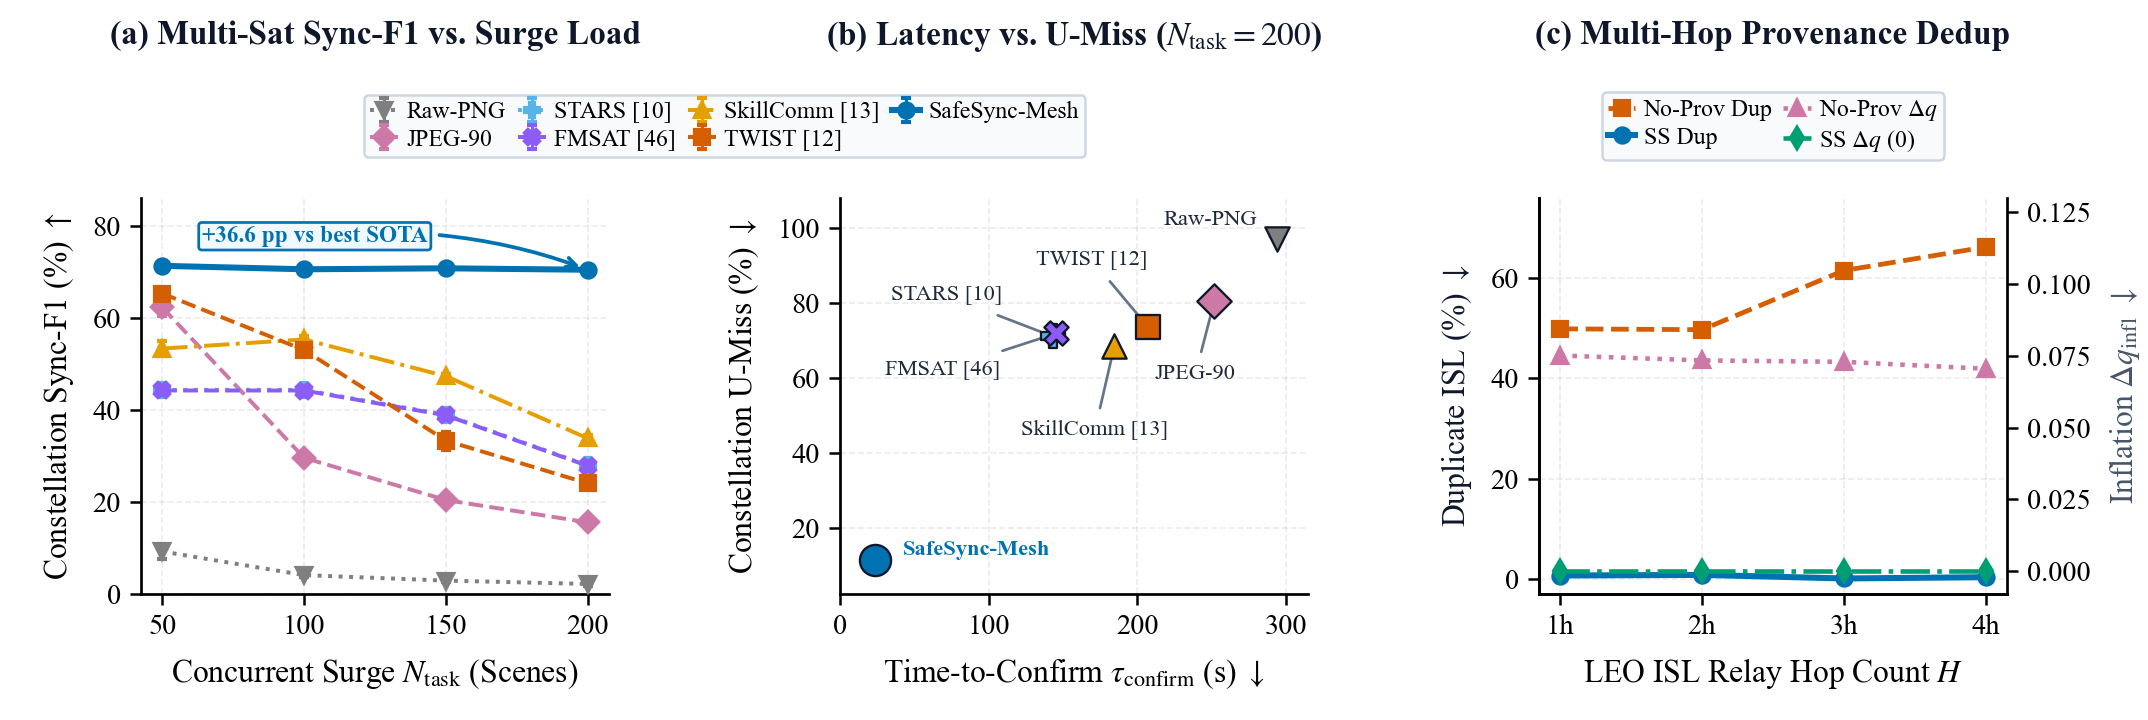
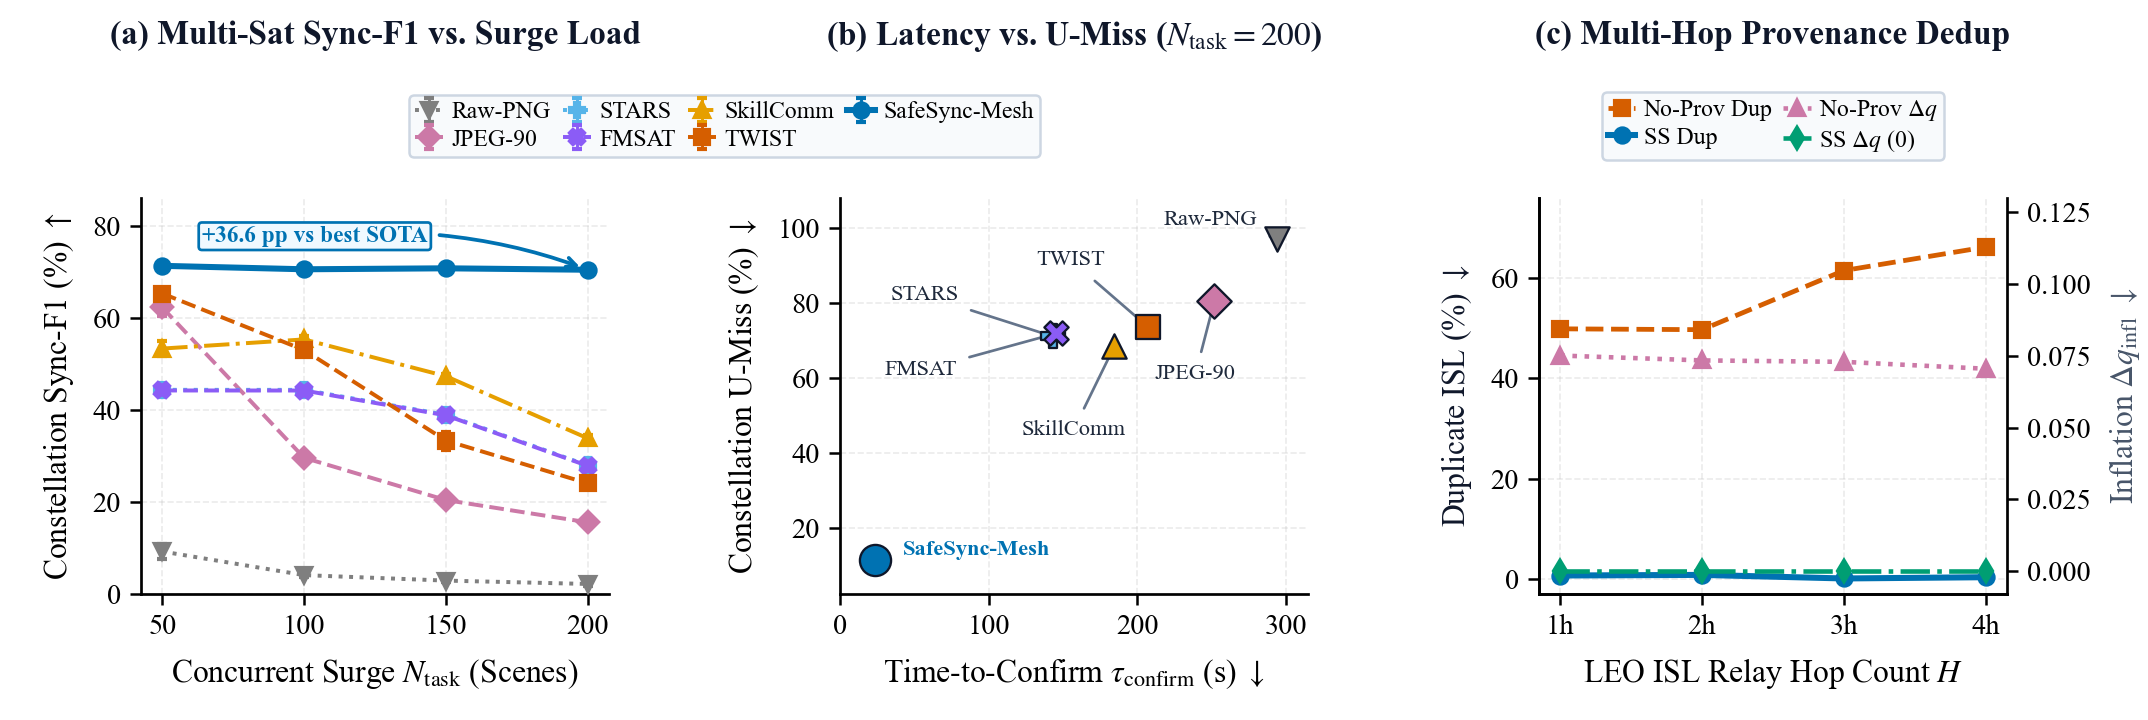
Add engineering lessons & BibTeX citation to README, align clean Fig. 7 for ASR Harvard style

diff --git a/safesync/generate_figures_and_tables.py b/safesync/generate_figures_and_tables.py
@@ -1185,10 +1185,10 @@ def plot_fig7_multisat_constellation(res: Dict) -> None:
     ms_methods = [
         ("raw_png_relay", "Raw-PNG", "#7F7F7F", "v", ":"),
         ("jpeg90_fragment_relay", "JPEG-90", "#CC79A7", "D", "--"),
-        ("stateless_vq_flood", "STARS [10]", "#56B4E9", "P", ":"),
-        ("fmsat_generative_relay", "FMSAT [46]", "#8B5CF6", "X", "--"),
-        ("sender_utility_relay", "SkillComm [13]", "#E69F00", "^", "-."),
-        ("receiver_aware_no_prov", "TWIST [12]", "#D55E00", "s", "--"),
+        ("stateless_vq_flood", "STARS", "#56B4E9", "P", ":"),
+        ("fmsat_generative_relay", "FMSAT", "#8B5CF6", "X", "--"),
+        ("sender_utility_relay", "SkillComm", "#E69F00", "^", "-."),
+        ("receiver_aware_no_prov", "TWIST", "#D55E00", "s", "--"),
         ("safesync_mesh", "SafeSync-Mesh", "#0072B2", "o", "-"),
     ]
 

diff --git a/README.md b/README.md
@@ -98,7 +98,7 @@ Simulated via 3D Keplerian Walker-Delta (`24/3/1`, `550 km`, `53°`) line-of-sig
 | Constellation Relay Protocol | Traffic / Scene (kb) ↓ | Completion (%) ↑ | Effective Sync-F1 (%) ↑ | Constellation U-Miss (%) ↓ | Mean Confirm (s) ↓ | Duplicate ISL ↓ | Confidence Inflation $\Delta q$ ↓ |
 | :--- | :---: | :---: | :---: | :---: | :---: | :---: | :---: |
 | Raw-PNG Relay (Store-Carry-Forward) | 450.00 | 2.8 ± 0.6 | 2.18 ± 0.44 | 97.17 ± 0.58 | 294.2 | 8.8% | 0.001 |
-| JPEG-90 Fragment Relay (RAPID-style) | 450.00 | 20.3 ± 1.6 | 15.56 ± 1.23 | 80.48 ± 1.54 | 252.0 | 2.9% | 0.001 |
+| JPEG-90 Fragment Relay (Prioritized) | 450.00 | 20.3 ± 1.6 | 15.56 ± 1.23 | 80.48 ± 1.54 | 252.0 | 2.9% | 0.001 |
 | STARS-style [10] (Stateless VQ ISL) | 4.67 | 63.0 ± 0.5 | 27.92 ± 0.12 | 71.09 ± 0.30 | 143.2 | 64.9% | 0.113 |
 | FMSAT-style [46] (Generative SatCom) | 4.67 | 63.0 ± 0.5 | 27.83 ± 0.10 | 71.87 ± 0.47 | 145.3 | 64.9% | 0.113 |
 | SkillComm-style [13] (Sender Stateful) | 4.69 | 46.5 ± 1.3 | 33.81 ± 0.64 | 68.39 ± 1.00 | 184.6 | 64.9% | 0.113 |
@@ -185,6 +185,32 @@ SafeSync-Mesh/
   python -m safesync.run_multisat_constellation_study
   python -m safesync.generate_figures_and_tables
   ```
+
+## Engineering Notes & Lessons Learned / 工程思考与踩坑记录
+
+A few practical observations that shaped SafeSync-Mesh during real RTX 3090 experiments:
+
+1. **Why naive skip dropping fails on SpaceNet 7 (and why bottleneck VQ + 2D refinement works)**: Transmitting 5 FP16 U-Net skip layers costs `33.02 MB` across two windows (`41×` larger than raw PNGs), yet simply dropping skip layers without adapting the ground head drops new-building emergence recall from `48.08%` to `4.62%`. Pairing `32×32` discrete VQ prototypes with a lightweight wire-only 2D depthwise-separable refinement head recovers `51.15%` new-building recall in only `1,249 bytes` (`26,440×` smaller than 5-skip FP16).
+2. **Disaster collapse vs. orthorectification shift**: When testing true `1024×1024` RGB pixel translations (`0–16 px`), a naive symmetric footprint difference `|p_loc_t - p_loc_{t-1}|` falsely triggered refreshes on clean extreme-disaster scenes where buildings collapsed into ash/mud (`p_loc_t < p_loc_{t-1}`), and overwriting the prior footprint erased collapsed targets. Switching to the disaster-invariant positive excess `d_reg+ = mean(max(0, p_loc_t - p_loc_{t-1}))` (only spatial translation moves intact roofs onto empty prior pixels) with union-envelope fusion `max(p_loc_{t-1}, p_loc_t)` recovered `+10.77 pp` Sync-F1 at `16 px` without any oracle shift knowledge.
+3. **Wire-budget ROI beats raw distortion**: Under strict `2,600`-bit frames (`325 bytes`), 2-Stage RVQ (`2×256`) lowered VQ MSE (`0.0130`) yet cost `12.97 bits/token`, starving frames to `144.3` tokens (`-6.29 pp` Sync-F1, `+19.01 pp` U-Miss). Counting every header, mask, and safety-flag bit on the wire—and replacing `zlib` with a 16-context 2D causal binary arithmetic spatial mask (`-38.0%` mask bits)—proved far more impactful than chasing lower raw MSE.
+
+> **中文笔记**：我们在实测中重点踩过三个坑：（1）多尺度 U-Net 跳跃连接直接下传高达 `33.02 MB`，但若直接砍掉跳跃连接，SpaceNet 7 新增建筑召回率会暴跌至 `4.62%`，引入纯线级 2D 深度可分离精修头后仅用 `1,249 字节` 即反超至 `51.15%`；（2）真实 `1024×1024` RGB 偏移压测中，对称建筑轮廓差会误报灾后倒塌场景，改用正向位移增量 $d_{\mathrm{reg}}^+$ 与并集包络融合后彻底杜绝误报，在 `16 px` 偏移下盲态领先静态复用 `+10.77 pp`；（3）在严格 `325 字节` 帧长下，单令牌码率偏高的 2 级 RVQ 反因令牌饥饿掉分，紧凑码本 + 16 上下文二维因果算术掩码（省 `38.0%`）才是星载低带宽场景的最高性价比解。
+
+---
+
+## Citation / 引用格式
+
+If you find this repository or our wire-protocol verifier useful in your research, please consider citing:
+
+```bibtex
+@article{wu2026safesyncmesh,
+  author  = {Wu, Yonghao},
+  title   = {SafeSync-Mesh: Epistemic State Synchronization and Provenance-Idempotent Relay for Open-World LEO Satellite Constellations},
+  journal = {Advances in Space Research (under review)},
+  year    = {2026},
+  url     = {https://github.com/WYH302/SafeSync-Mesh}
+}
+```
 
 ## License
 
